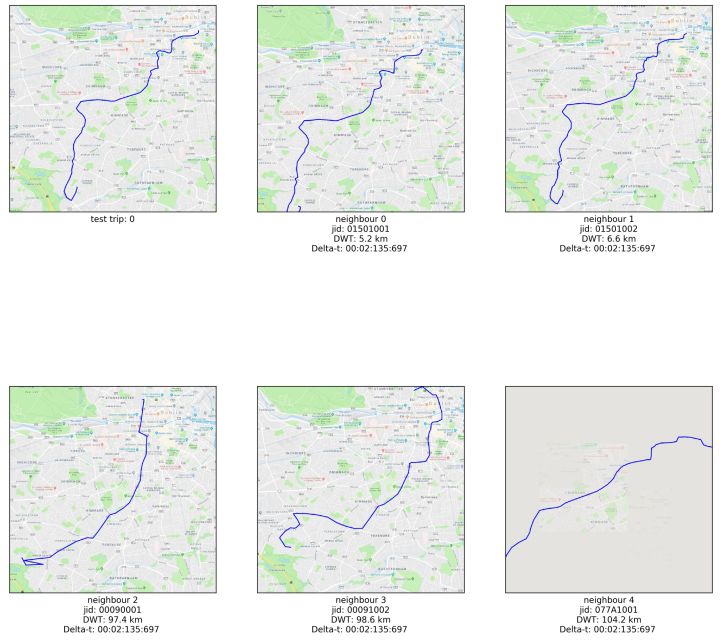
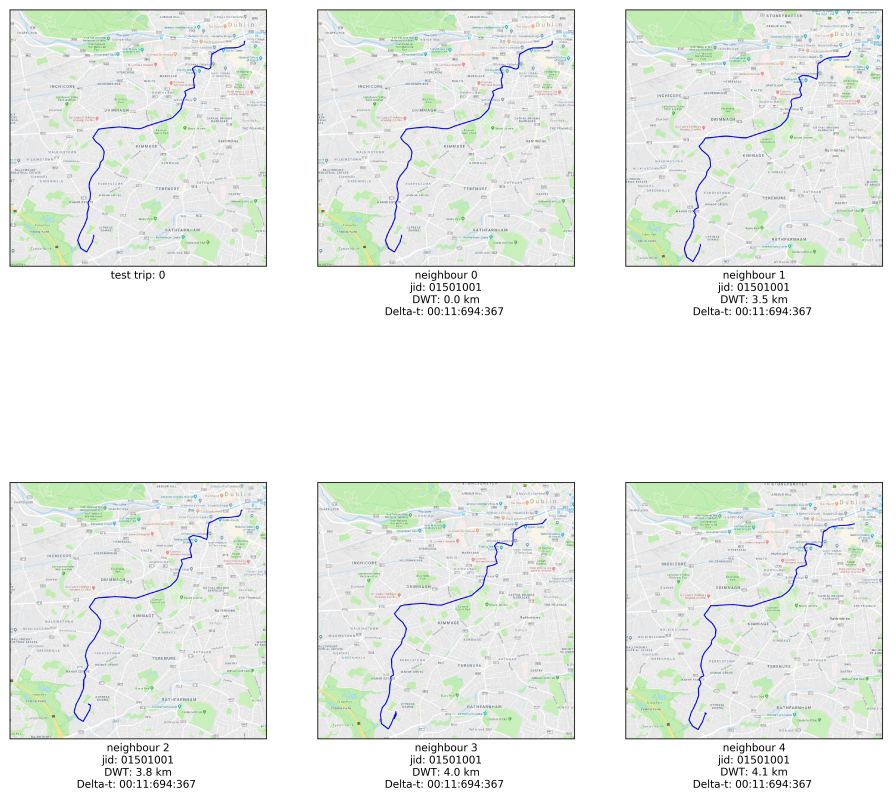
update report with new data, problem with subroutes results

diff --git a/ProjectReport/BigDataHomework.tex b/ProjectReport/BigDataHomework.tex
@@ -113,7 +113,7 @@
   subsequently grouped by the vehicleID and the journeyPatternId. The final dataframe contains five columns, where the three last columns contain a list of timestamps, a list of longitudes and a list of latitudes respectively.
 	
 	To produce the required final format [timestamp, longitude, latitude], we
-  iterate each row, producing a column with the appropriate list data.
+  iterate each row, producing a column with the appropriate list data. The total number of trips extracted to the trips.csv file is 6651.
   % the three lists are now concatenated in one column and therefore the other two are dropped from the dataframe. Then, the column vehicleID is replaced by the tripId column which is the index of this dataframe, starting from 0 and incrementing by 1. Finally, the column points, which now contains the list of lists with the timestamps and the points, is sorted based on the timestamp of each list item. The final result is exported in a file with the requested format.
 	
 	\subsection{Clean Data (question B)}
@@ -133,7 +133,7 @@
   compute the required distances and discard the trips that match the exclusion
   criteria.
 	
-	The resulting filtered trips are stored in the file \texttt{trips\_clean.csv}.
+	The resulting filtered trips are stored in the file \texttt{trips\_clean.csv}. The total number of filtered trips is 6020 (192 are deleted due to having total distance less than 2km while 439 are excluded due having to max distance between two points more than 2km).
 	
 	\subsection{Trip Visualization (question C)}
 	This trip visualization task is implemented in the function
@@ -248,35 +248,35 @@ neighbours). All plotting is done with the pylab package.
 	
 	\begin{figure} [H]
 		\begin{center}
-			\includegraphics [scale = 0.80] {nn1.png}
+			\includegraphics [scale = 0.60] {nn1.png}
 			\caption{Nearest neighbours for the first test trip}
 		\end{center}
 	\end{figure} 
 
 	\begin{figure} [H]
 		\begin{center}
-			\includegraphics [scale = 0.80] {nn2.png}
+			\includegraphics [scale = 0.60] {nn2.png}
 			\caption{Nearest neighbours for the second test trip}
 		\end{center}
 	\end{figure}
 
 	\begin{figure} [H]
 		\begin{center}
-			\includegraphics [scale = 0.80] {nn3.png}
+			\includegraphics [scale = 0.60] {nn3.png}
 			\caption{Nearest neighbours for the third test trip}
 		\end{center}
 	\end{figure} 
 
 	\begin{figure} [H]
 		\begin{center}
-			\includegraphics [scale = 0.80] {nn4.png}
+			\includegraphics [scale = 0.60] {nn4.png}
 			\caption{Nearest neighbours for the fourth test trip}
 		\end{center}
 	\end{figure} 
 
 	\begin{figure} [H]
 		\begin{center}
-			\includegraphics [scale = 0.80] {nn5.png}
+			\includegraphics [scale = 0.60] {nn5.png}
 			\caption{Nearest neighbours for the fifth test trip}
 		\end{center}
 	\end{figure} 
@@ -288,11 +288,11 @@ neighbours). All plotting is done with the pylab package.
 		\begin{tabular}{|c|c|c|c|c|c|c|c|c|c|c|c|}
 			\hline
 			\textbf{}  & \textbf{Time} & \textbf{id1} & \textbf{d1} & \textbf{id2} & \textbf{d2} & \textbf{id3} & \textbf{d3} & \textbf{id4} & \textbf{d4} & \textbf{id5} & \textbf{d5} \\ \hline
-			\textbf{1} & 02:135:695    & 309          & 5.2           & 1599         & 6.6           & 1899         & 6.7           & 153          & 6.9           & 9         & 8.2           \\ \hline
-			\textbf{2} & 01:81:384     & 929          & 4.1           & 955          & 65.5          & 582          & 85.3          & 2291         & 105.6         & 2834         & 106.7         \\ \hline
-			\textbf{3} & 02:139:475    & 2060         & 4.8           & 1270          & 5.8           & 1846          & 6.0           & 2065          & 7.8           & 1279          & 16.0          \\ \hline
-			\textbf{4} & 01:88:780     & 2415         & 2.5           & 786          & 3.5           & 753         & 3.5           & 1691          & 64.4          & 983          & 65.7          \\ \hline
-			\textbf{5} & 01:86:359     & 740          & 6.6           & 1304         & 32.4          & 2686         & 46.1          & 3138         & 72.3          & 1435         & 145.1         \\ \hline
+			\textbf{1} & 11:694:365    & 4139          & 0.0           & 1756         & 3.5           & 584         & 3.8           & 3119          & 4.0           & 3428         & 4.1           \\ \hline
+			\textbf{2} & 05:358:252     & 1554          & 0.0           & 6461          & 2.8          & 1985          & 3.4          & 611         & 3.4         & 1434         & 3.5         \\ \hline
+			\textbf{3} & 12:732:353    & 3317         & 0.0           & 1939          & 4.7           & 3200          & 4.8           & 5374          & 4.8           & 1508          & 4.8          \\ \hline
+			\textbf{4} & 07:475:129     & 603         & 0.0           & 559          & 2.5           & 951         & 2.8           & 1118          & 3.2          & 684          & 3.5          \\ \hline
+			\textbf{5} & 07:444:862     & 1497          & 0.0           & 1688         & 4.3          & 927         & 4.5          & 2578         & 4.6          & 6252         & 4.7         \\ \hline
 		\end{tabular}
 	\caption{Nearest Neighbors results}
 	\label{nnresults}
@@ -370,7 +370,7 @@ neighbours). All plotting is done with the pylab package.
 		\begin{tabular}{|c|c|c|c|c|c|c|c|c|c|c|c|}
 			\hline
 			\textbf{}  & \textbf{Time} & \textbf{id1} & \textbf{pts1} & \textbf{id2} & \textbf{pts2} & \textbf{id3} & \textbf{pts3} & \textbf{id4} & \textbf{pts4} & \textbf{id5} & \textbf{pts5} \\ \hline
-			\textbf{1} & 01:62:303     & 491          & 31            & 667          & 31            & 1366         & 22            & 503          & 21            & 426          & 19            \\ \hline
+			\textbf{1} & 05:346:265     & 211          & 31            & 728          & 31            & 3590         & 22            & 4985          & 21            & 843          & 19            \\ \hline
 			\textbf{2} & 01:63:755     & 2620         & 42            & 510          & 37            & 1093         & 34            & 426          & 31            & 363          & 30            \\ \hline
 			\textbf{3} & 00:32:319     & 200          & 40            & 1885         & 40            & 2763         & 40            & 142          & 39            & 135          & 35            \\ \hline
 			\textbf{4} & 00:46:297     & 566          & 32            & 1269         & 21            & 227          & 20            & 2561         & 17            & 252          & 15            \\ \hline

diff --git a/Project/main.py b/Project/main.py
@@ -26,8 +26,8 @@ def question_2(opts):
     print("=====================")
     # Question 2
     print("\n>>> Running question 2a1 - Nearest neighbours computation")
-    qp2.question_a1(opts["mapsdir"], opts["cleanfile"], opts["testfiles"][0], opts["paropts"], opts["k"], options["unique_subroute_jids"])
-
+    # qp2.question_a1(opts["mapsdir"], opts["cleanfile"], opts["testfiles"][0], opts["paropts"], opts["k"], options["unique_subroute_jids"])
+    # qp2.question_a1(opts["mapsdir"], opts["cleanfile"], opts["testfiles"][0], opts["paropts"], opts["k"], False)
     print("\n>>> Running question 2a2 - Nearest subroutes computation")
     qp2.question_a2(opts["mapsdir"], opts["testfiles"][1], opts["cleanfile"],\
                     opts["conseq_lcss"], opts["k"], opts["paropts"], opts["verbosity"], options["unique_subroute_jids"])
@@ -103,7 +103,7 @@ if __name__ == '__main__':
     test_files = [join(options["indir"], "test_set_a%d.csv" % t) for t in [1,2]] + ["test_set.csv"]
     test_files = [join(options["indir"],t) for t in test_files]
     options["testfiles"] = test_files
-    options["unique_subroute_jids"] = False
+    options["unique_subroute_jids"] = True
     options["k"] = 5
 
     # run

diff --git a/Project/NearestSubroutes.py b/Project/NearestSubroutes.py
@@ -222,13 +222,13 @@ def update_current_maxsubseq(current, new_seqs, k, elapsed, row, unique_jids = T
     :return:
     """
     if unique_jids:
-        new_jid = row['journeyId']
-        current_jids = [r['journeyId'] for (_,_,r) in current]
+        new_jid = row['tripId']
+        current_jids = [r['tripId'] for (_,_,r) in current]
         if new_jid in current_jids:
             # replace only if new sequence length is larger
-            existing_item = [item for item in current if item[2]['journeyId'] == new_jid]
+            existing_item = [item for item in current if item[2]['tripId'] == new_jid]
             if len(existing_item) > 1:
-                print("Found more than one item with jid",new_jid,"impossible!")
+                print("Found more than one item with tripId",new_jid,"impossible!")
                 exit(1)
             # get the item, its position and its sequence length
             existing_item = existing_item[0]
